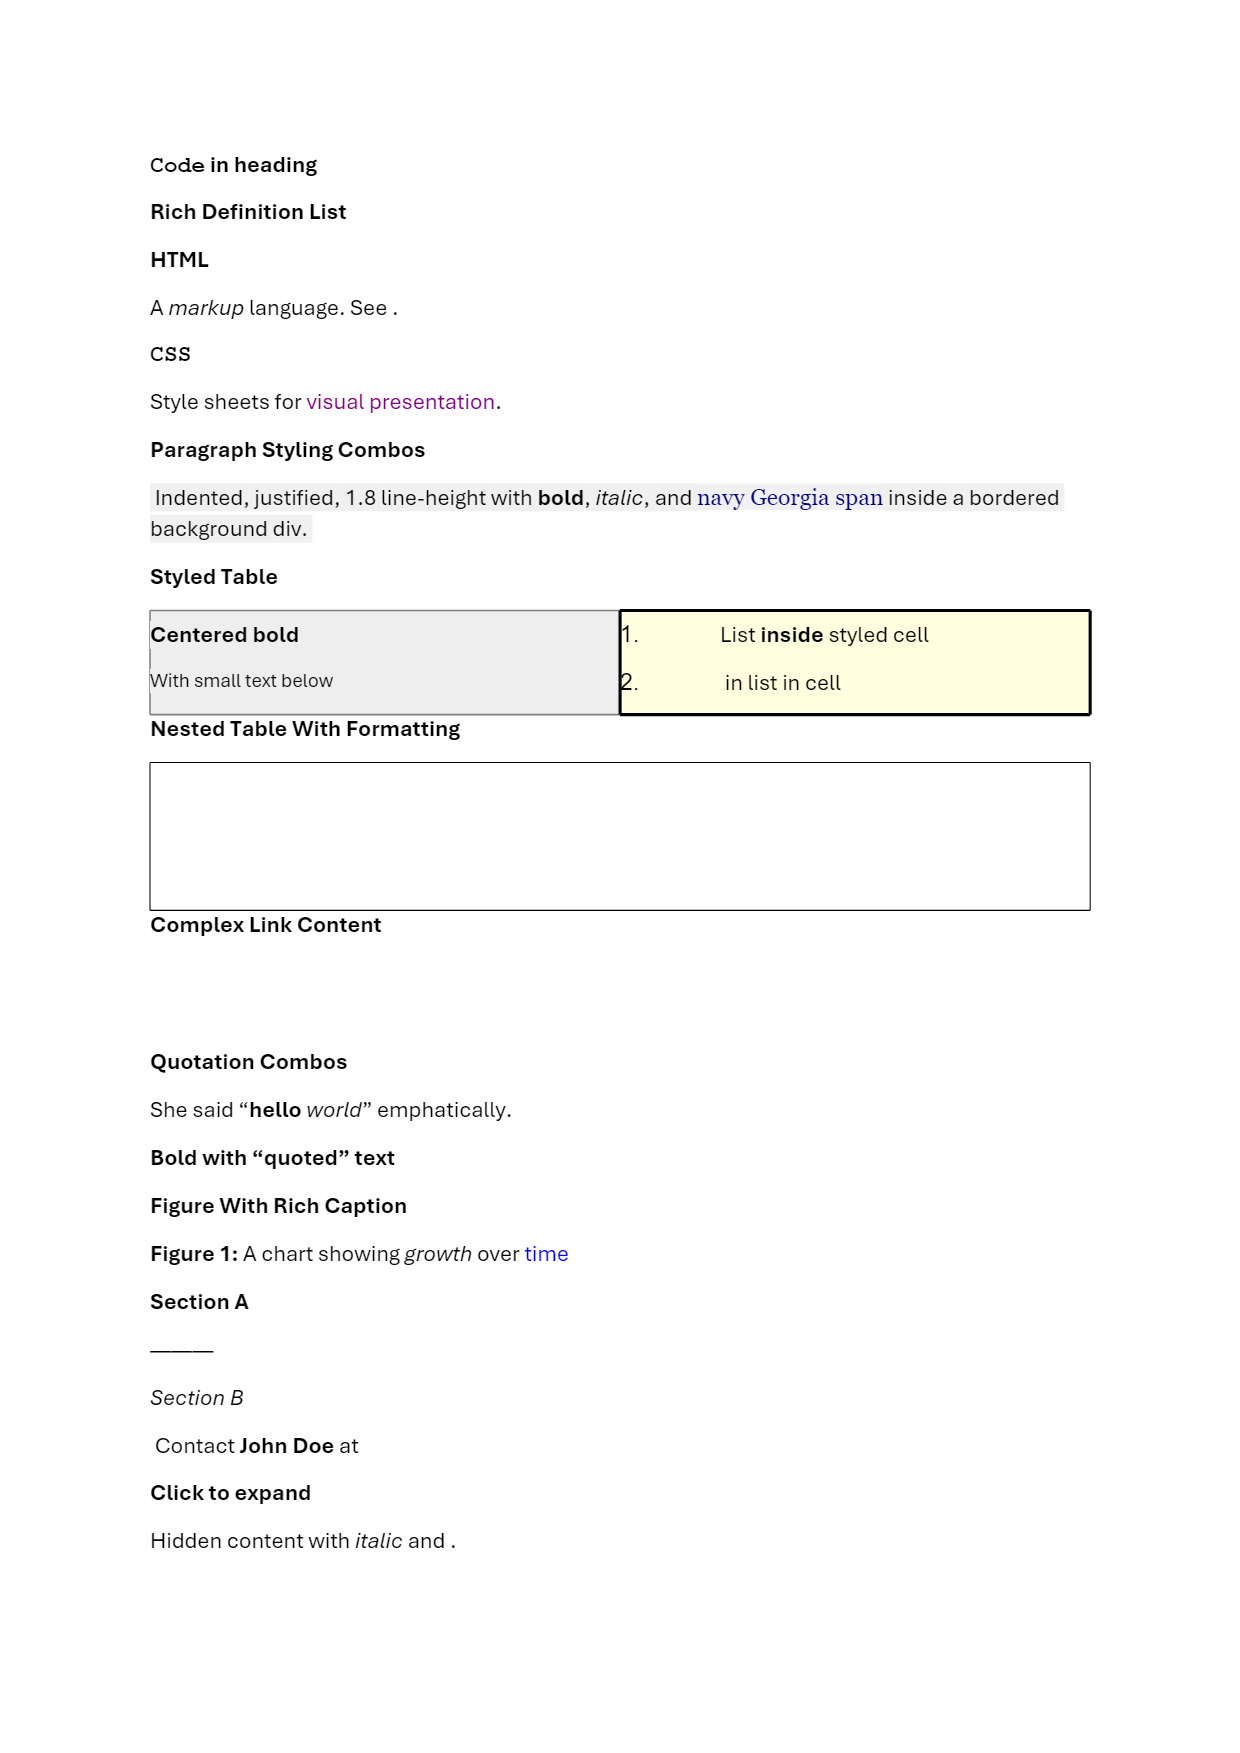
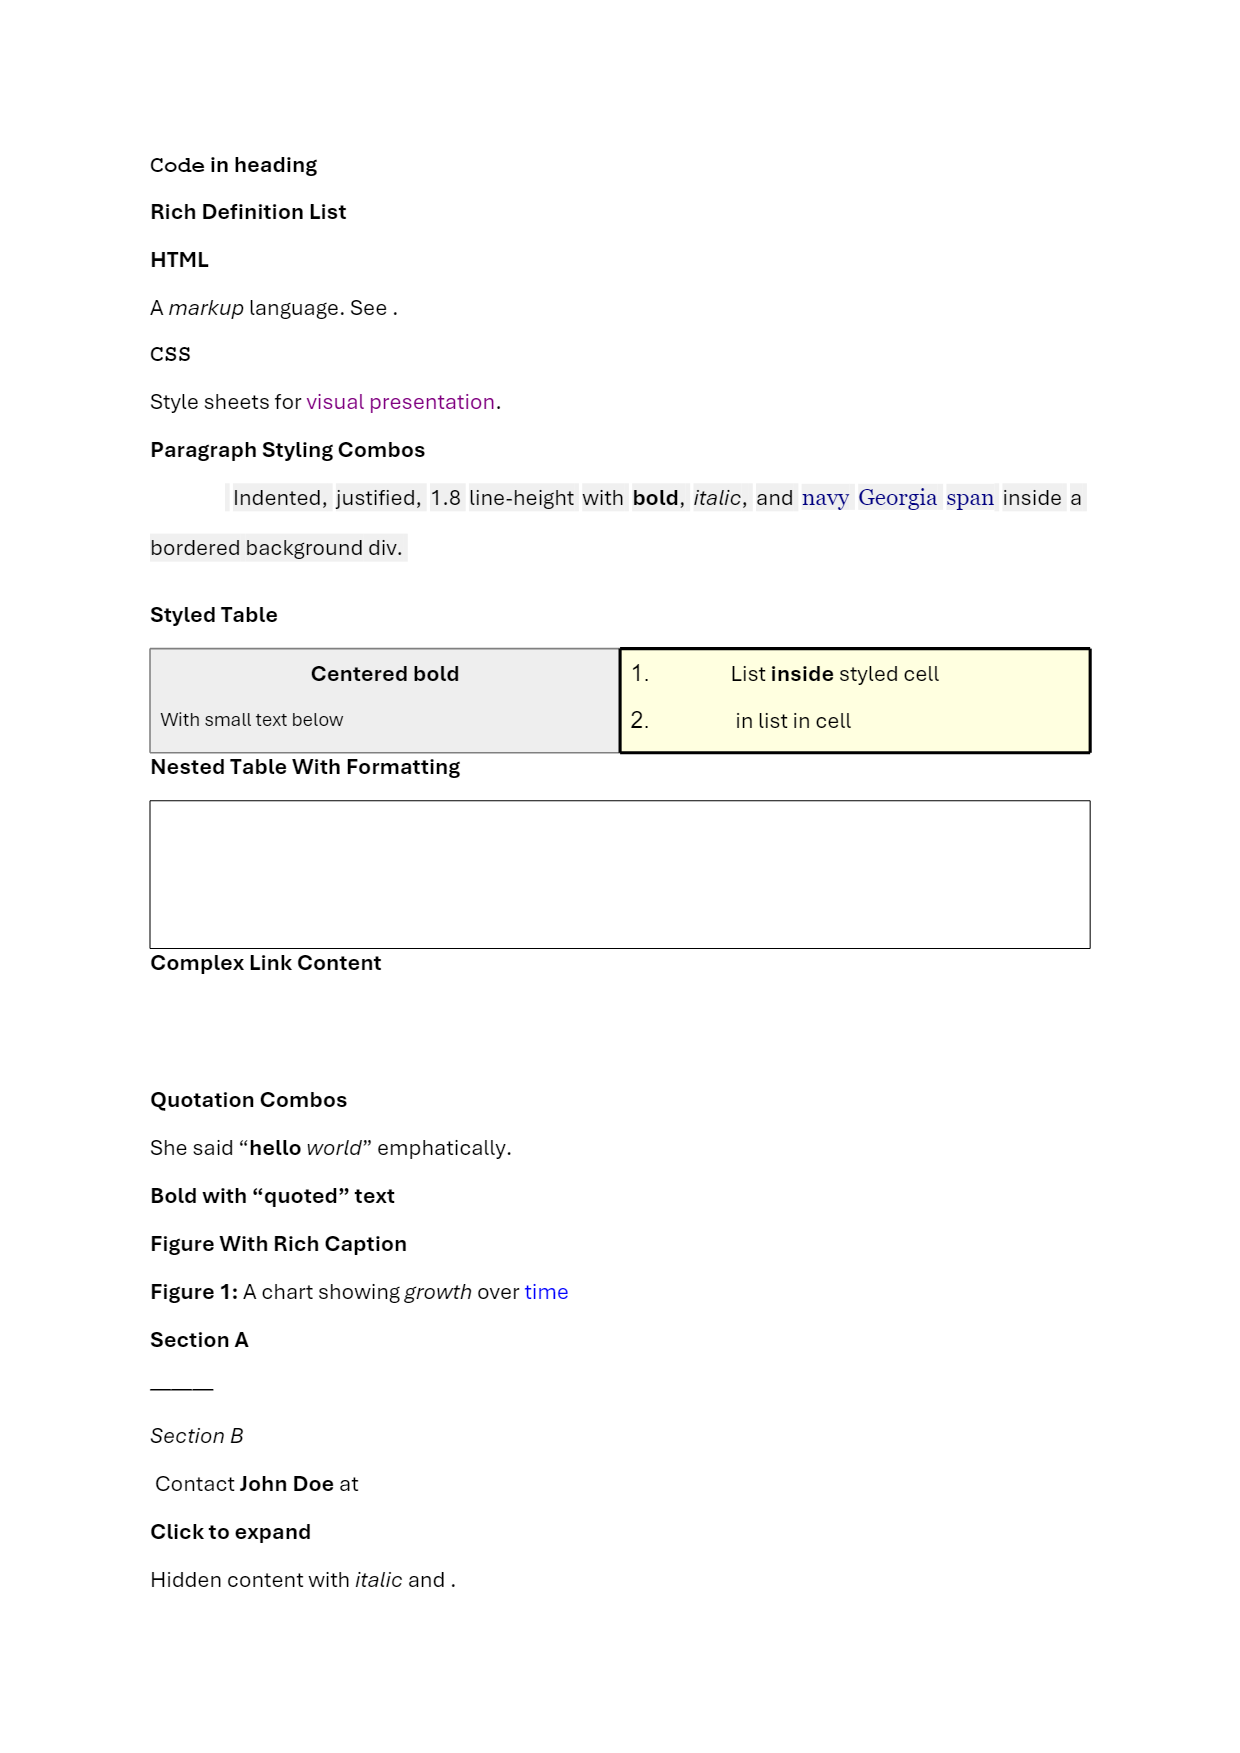
Fix ParagraphFormat being wiped before paragraph flush (#11)
ProcessElement assigned context.ParagraphFormat from inline CSS and then
  called FlushParagraph, which clears the format on both code paths. By
  the time the paragraph's runs were flushed, the format was null and
  ApplyParagraphFormat never ran — so margins, text-align, line-height,
  text-indent, borders, background-color, and writing-mode declared on
  block elements silently produced no <w:pPr> output.

  Defer the assignment until after the flush, matching the existing
  ordering for HeadingLevel and ParagraphStyleId. Refresh 25 verified
  baselines that had locked in the broken (no-pPr) output.

diff --git a/src/OpenXmlHtml/WordContentBuilder.cs b/src/OpenXmlHtml/WordContentBuilder.cs
@@ -185,6 +185,7 @@ static partial class WordContentBuilder
 
         if (isBlock)
         {
+            ParagraphFormatState? pendingFormat = null;
             if (styleDeclarations != null)
             {
                 pageBreakBefore = styleDeclarations.TryGetValue("page-break-before", out var pbb) && pbb == "always";
@@ -193,11 +194,16 @@ static partial class WordContentBuilder
                 var pf = ParagraphFormatState.ParseFrom(styleDeclarations);
                 if (pf.HasProperties)
                 {
-                    context.ParagraphFormat = pf;
+                    pendingFormat = pf;
                 }
             }
 
             FlushParagraph(elements, context);
+
+            if (pendingFormat != null)
+            {
+                context.ParagraphFormat = pendingFormat;
+            }
 
             if (tag is "h1" or "h2" or "h3" or "h4" or "h5" or "h6")
             {
